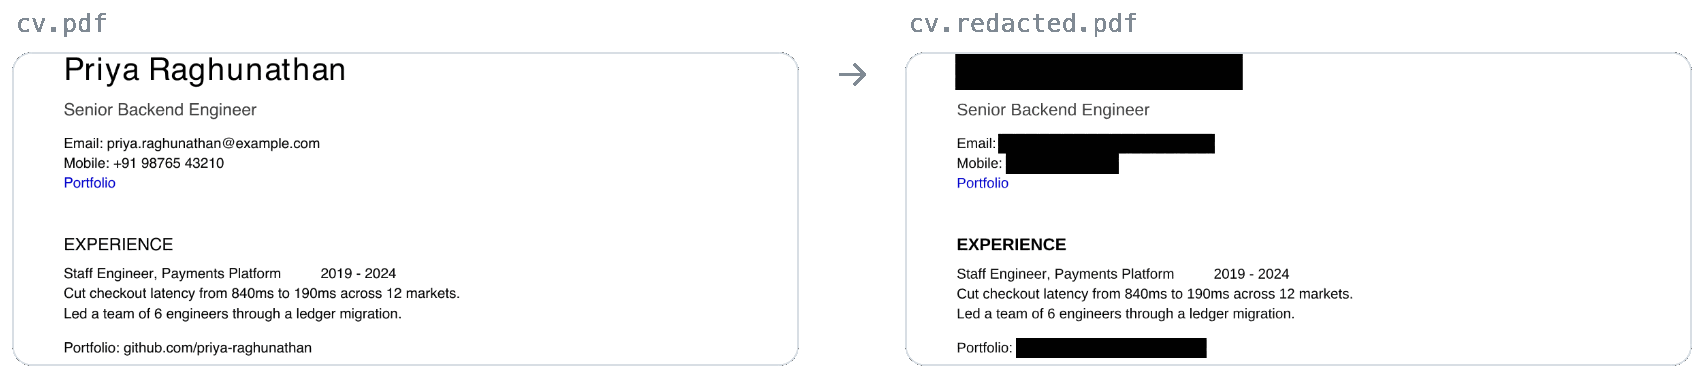
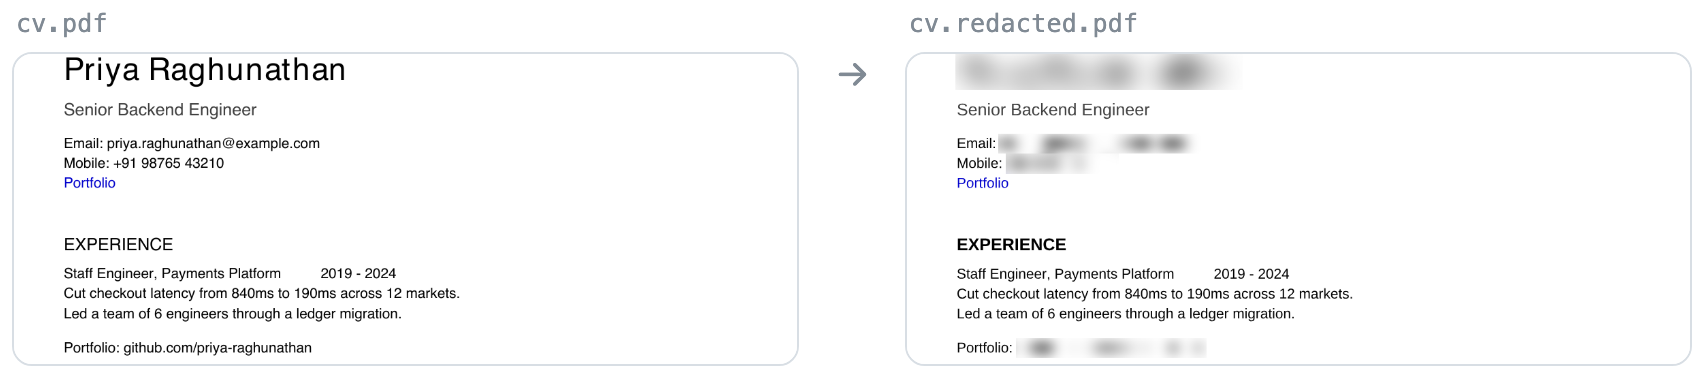
Make blur the default redaction style
`box` was the default. It is still the only style that gives nothing away,
and it is one option away, but a blurred CV reads as a document rather than
a censored file and that is the better thing to hand a reviewer by default.

Worth being clear about what this trades, because it is a privacy tool and
the unconfigured path is now the leakier one. Every style destroys the text,
since the page is rebuilt from pixels either way, so nothing becomes
recoverable that was not before. What blur leaks is the shape of what was
covered: how many words, how long each one was, where the lines broke. That
is enough to tell a short name from a long one. Pass `style: 'box'` when
even that is too much.

The warning stays. A style that leaves the shape visible should not be
applied silently just because it is the default, so a default run now
carries exactly one warning. That means `warnings.length === 0` is no longer
the test for "nothing went wrong", which the README now says in the place
where it tells you to read that field.

The test that asserted black pixels at the name now asks for `style: 'box'`
explicitly, because it is a test about where the box landed rather than
about which style painted it. A new test pins the default: the same run with
no style set must paint the same pixels as `style: 'blur'`, must not match
`style: 'box'`, and must carry the shape warning.

The before and after image in the README was showing box output, so it is
regenerated from the default.

diff --git a/test/redact.test.ts b/test/redact.test.ts
@@ -62,6 +62,9 @@ test('the name is located from an LLM quote and painted black', async () => {
     provider,
     dpi: DPI,
     output: 'both',
+    // Explicit, because the default is 'blur' and this test is about where the
+    // box landed rather than about which style painted it.
+    style: 'box',
   });
 
   const name = result.detections.find((d) => d.target === 'name');
@@ -84,6 +87,42 @@ test('the name is located from an LLM quote and painted black', async () => {
   // And the pixels there must actually be black.
   const centre = await samplePixel(result.images![0]!, name.box.x + name.box.width / 2, name.box.y + name.box.height / 2);
   assert.deepEqual(centre, [0, 0, 0], `expected black at the name, got ${centre.join(',')}`);
+});
+
+test('the default style is blur, and it says so in the warnings', async () => {
+  const { bytes } = await buildSampleCv();
+  const quote = { line: 1, quote: 'Priya Raghunathan', target: 'name', confidence: 0.97 };
+
+  const run = (style?: 'blur' | 'box') =>
+    redact(bytes, {
+      targets: ['name'],
+      mode: 'text',
+      provider: scriptedProvider([{ redactions: [quote] }]),
+      dpi: DPI,
+      output: 'images',
+      ...(style ? { style } : {}),
+    });
+
+  const [defaulted, blurred, boxed] = await Promise.all([run(), run('blur'), run('box')]);
+
+  assert.deepEqual(
+    defaulted.images![0],
+    blurred.images![0],
+    'the default did not paint the same pixels as style "blur"',
+  );
+  assert.notDeepEqual(
+    defaulted.images![0],
+    boxed.images![0],
+    'the default painted the same pixels as style "box"',
+  );
+
+  // A shape-leaking style must never be applied silently, default or not.
+  assert.equal(
+    defaulted.audit.warnings.filter((w) => w.includes('style "blur"')).length,
+    1,
+    `expected one style warning, got ${JSON.stringify(defaulted.audit.warnings)}`,
+  );
+  assert.equal(boxed.audit.warnings.length, 0, 'style "box" should warn about nothing');
 });
 
 test('the redacted PDF has no extractable text and no metadata', async () => {

diff --git a/src/types.ts b/src/types.ts
@@ -125,6 +125,14 @@ export interface RedactOptions {
   dpi?: number;
   /** Grid used by vision mode. */
   grid?: GridOptions;
+  /**
+   * How a detected region is covered. Default 'blur'.
+   *
+   * Every style destroys the text, because the page is rebuilt from pixels
+   * either way. They differ in what they still tell a reader about what was
+   * removed: 'blur' and 'pixelate' leave the shape of it visible, which is
+   * enough to tell a short name from a long one. 'box' leaves nothing.
+   */
   style?: RedactionStyle;
   /** Padding in pixels added around every detected box. Default 2. */
   padding?: number;

diff --git a/src/pipeline.ts b/src/pipeline.ts
@@ -97,7 +97,7 @@ export async function redact(input: Buffer, options: RedactOptions): Promise<Red
   );
 
   options.onProgress?.({ stage: 'apply', totalPages: document.pages.length });
-  const painted = await paintPages(document, merged, options.style ?? 'box');
+  const painted = await paintPages(document, merged, options.style ?? 'blur');
   warnings.push(...painted.warnings);
 
   const output = options.output ?? 'pdf';

diff --git a/README.md b/README.md
@@ -8,9 +8,9 @@ It exists because drawing a black rectangle on a PDF redacts nothing. The text s
 
 [![ci](https://github.com/RemoteStar-AI/rsredact/actions/workflows/ci.yml/badge.svg)](https://github.com/RemoteStar-AI/rsredact/actions/workflows/ci.yml)
 
-<img src="assets/redaction-example.png" width="852" alt="One CV before and after redaction. The name, email, phone number, and a URL written in the body are painted out. The job title, the dates, and the achievement lines are untouched.">
+<img src="assets/redaction-example.png" width="852" alt="One CV before and after redaction. The name, email, phone number, and a URL written in the body are blurred into unreadable smudges. The job title, the dates, and the achievement lines are untouched.">
 
-The name, the contact block, and the URL written into the body are gone. The job title, the dates, and what the candidate actually did are untouched, which is the whole point. The word "Portfolio" is still readable, but the link under it no longer goes anywhere.
+The name, the contact block, and the URL written into the body are gone. That is the default style, `blur`, and it is not a smudge over live text: the characters were destroyed before anything was smoothed. The job title, the dates, and what the candidate actually did are untouched, which is the whole point. The word "Portfolio" is still readable, but the link under it no longer goes anywhere.
 
 What it does not do is make a CV anonymous. Blacking out the name and the contact block is the easy half. A distinctive project, an award, or a line like "cut the $10000 AWS Glue bill by 96%" is one search away from a name, and no target matches any of those. Read [Limitations](#limitations) before you decide this is enough.
 
@@ -59,10 +59,14 @@ Start with the run's own record.
 
 ```ts
 console.log(result.audit.detectionCounts);  // { name: 1, email: 1, phone: 1, 'social+url': 1 }
-console.log(result.audit.warnings);         // []
+console.log(result.audit.warnings);         // one entry: the default style leaks shape
 ```
 
-An empty `warnings` is not a clean bill of health by itself. In `patterns-only` mode, and in `text` mode when the only targets left are visual ones, every model target is skipped in silence and `warnings` stays empty. So read `detectionCounts` against the targets you actually asked for: a target you requested that is missing from the counts either found nothing or never ran, and those two look identical from here.
+Two things about `warnings` that will bite you if you assume otherwise.
+
+A default run is never empty. `blur` is the default style and it always warns, because a style that leaves the shape of the text visible should never be applied silently. So `warnings.length === 0` is not the test for "nothing went wrong". Either pass `style: 'box'`, which warns about nothing, or filter the style entry out before you look.
+
+And an empty `warnings` is still not a clean bill of health. In `patterns-only` mode, and in `text` mode when the only targets left are visual ones, every model target is skipped in silence. So read `detectionCounts` against the targets you actually asked for: a target you requested that is missing from the counts either found nothing or never ran, and those two look identical from here.
 
 `social+url` is not a typo. Two detectors landing on the same box merge into one detection carrying both names, so filter with `includes`, not `===`.
 
@@ -201,7 +205,7 @@ Add `patterns: [/.../ ]` and the regexes run before any model call. Add `visualO
 | `provider` | none | Omit to run pattern and link detection only |
 | `mode` | `auto` | `auto`, `text`, `vision`, `patterns-only` |
 | `linkText` | `keep` | `keep`, `redact-identifying`, `redact-all` |
-| `style` | `box` | `box`, `label`, `blur`, `pixelate` |
+| `style` | `blur` | `blur`, `box`, `label`, `pixelate` |
 | `dpi` | `150` | Render resolution |
 | `padding` | `2` | Pixels added around every box |
 | `minConfidence` | `0.5` | Drop detections below this |
@@ -212,7 +216,11 @@ Add `patterns: [/.../ ]` and the regexes run before any model call. Add `visualO
 | `rsparseUrl` | none | An [rsparse](https://github.com/RemoteStar-AI/rsparse) instance, for document context |
 | `onProgress` | none | Per stage callback |
 
-`blur` and `pixelate` both throw the detail away by downsampling the region before they smooth or block it, so the characters cannot be read back out of the output. What does survive is the *shape* of what was covered: how many words, how long each one was, and where the lines broke. That is enough to tell a short name from a long one, so `box` is still the right choice when the output leaves your control. Both emit a warning in `audit.warnings` saying exactly that.
+Every style destroys the text, because the page is rebuilt from pixels either way. What they differ on is how much they still tell a reader about what was taken.
+
+`blur` is the default because a blurred CV reads as a deliberate document rather than a censored one, and a reviewer can see that something was removed without being told. `pixelate` is the same operation drawn back with smoothing off. Both downsample the region to a twelfth of its size first, so the characters cannot be read back out of the output, but the *shape* survives: how many words, how long each one was, and where the lines broke. That is enough to tell a short name from a long one, and both emit a warning in `audit.warnings` saying so.
+
+`box` is the only style that leaves nothing. Pass it when the output goes anywhere you do not control, or when even the length of a name is more than you want to disclose. `label` is `box` with the target name printed on the fill, which is useful when a human needs to see that nothing was covered by accident.
 
 ### What throws and what warns
 
@@ -229,7 +237,7 @@ The rule is that anything which would make the output untrustworthy throws, and 
 | The model returns an unreadable grid reference | warns, that one detection is dropped |
 | A model target was asked for with no provider | warns, except in `patterns-only` |
 | A page has no text layer and neither OCR nor vision ran | warns, and that page comes back unredacted |
-| `style` is `blur` or `pixelate` | warns that the shape of the text is still visible |
+| `style` is `blur` or `pixelate` | warns that the shape of the text is still visible. `blur` is the default, so this fires unless you ask for `box` |
 
 All four error classes extend `RedactError` and carry a `code`.
 
